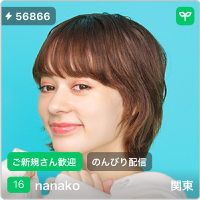
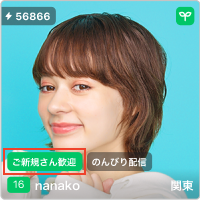
Mark the newcomer badge with a red outline

Changed region(s): [[0.0, 0.72, 0.45, 0.9]]

diff --git a/request/index.html b/request/index.html
@@ -26,7 +26,7 @@
     });
 })();
 </script>
-<meta name="description" content="えむぴーの歌まね配信にリクエスト。"><link rel="stylesheet" href="./style.css?entry=glossary-shared-layout"><link rel="stylesheet" href="./site-frame.css"><link rel="stylesheet" href="./site-menu.css?layout=home-label-link"><link rel="stylesheet" href="./bug-reports.css?layout=form-actions"><script src="./config.js"></script><script type="module" src="./listener.mjs?entry=glossary-glossary-welcome-badge"></script><script type="module" src="./bug-reports.mjs?v=ko-copy2"></script><link rel="icon" href="./favicon.svg"></head><body class="listener-layout">
+<meta name="description" content="えむぴーの歌まね配信にリクエスト。"><link rel="stylesheet" href="./style.css?entry=glossary-shared-layout"><link rel="stylesheet" href="./site-frame.css"><link rel="stylesheet" href="./site-menu.css?layout=home-label-link"><link rel="stylesheet" href="./bug-reports.css?layout=form-actions"><script src="./config.js"></script><script type="module" src="./listener.mjs?entry=glossary-glossary-welcome-badge-frame"></script><script type="module" src="./bug-reports.mjs?v=ko-copy2"></script><link rel="icon" href="./favicon.svg"></head><body class="listener-layout">
 <header class="global-nav listener-nav">
   <div class="nav-content">
     <a id="request-home" href="./" aria-label="リクエストトップ"><span class="nav-icon-container" aria-hidden="true"><svg class="nav-logo-svg" viewBox="0 0 24 24" xmlns="http://www.w3.org/2000/svg"><text x="50%" y="48%" dominant-baseline="central" text-anchor="middle" font-size="17" fill="currentColor" style="font-family: -apple-system, BlinkMacSystemFont, 'Segoe UI', Roboto, Helvetica, Arial, sans-serif;">🅿</text></svg></span><span class="request-beta">歌まねリクエスト β版</span></a>
